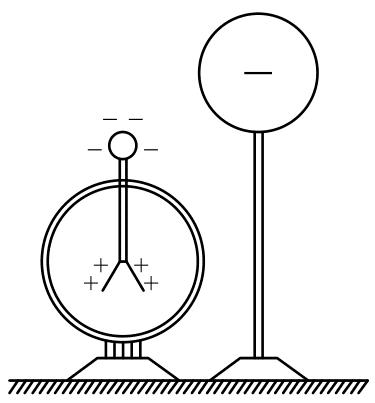
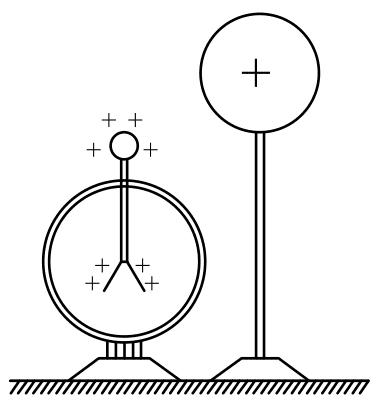
复核 2006 年 11 套真题：订正图片顺序/单位/文字并补齐解析公式编号、更新异常记录
- 北京理综第 14 题：选项验电器图与 A–D 对应错位，按图内容重排 figs/14a–d
- 四川理综第 14 题：题干补回“04 架”
- 广东第 2/15 题：s 裸单位改为 \Us（PhyUnit）
- 江苏第 10 题文字回归“我省”，第 13 题解析补公式编号 ①–③
- 江苏理综第 34/35 题解析补公式编号 ①–④ / ①–⑨ 及评分细则
- 上海第 8 题去子图自动编号、上海理综第 31 题答案去重“等”
- 异常记录/2006.md 补记复核发现的图片/文字/数据/单位/编号问题
- 11 卷重编学生版+教师版，make check 全部 0 错误

diff --git a/试卷/2006/江苏/江苏.tex b/试卷/2006/江苏/江苏.tex
@@ -245,7 +245,7 @@
 %% degree: 650
 %% duplicateId: 0
 %% body:
-江苏省沙河抽水蓄能电站自 2003 年投入运行以来，在缓解用电高峰电力紧张方面，取得了良好的社会效益和经济效益。抽水蓄能电站的工作原理是：在用电低谷时（如深夜），电站利用电网多余电能把水抽到高处蓄水池中；到用电高峰时，再利用蓄水池中的水发电。如图，蓄水池（上游水库）可视为长方体，有效总库容量（可用于发电）为 $V$，蓄水后水位高出下游水面 $H$，发电过程中上游水库水位最大落差为 $d$。统计资料表明，该电站年抽水用电为 $2.4\times10^{8}\UkWh$，年发电量为 $1.8\times10^{8}\UkWh$。则下列计算结果正确的是\xzanswer{BC}（水的密度为 $\rho$，重力加速度为 $g$，涉及重力势能的计算均以下游水面为零势能面）
+我省沙河抽水蓄能电站自 2003 年投入运行以来，在缓解用电高峰电力紧张方面，取得了良好的社会效益和经济效益。抽水蓄能电站的工作原理是：在用电低谷时（如深夜），电站利用电网多余电能把水抽到高处蓄水池中；到用电高峰时，再利用蓄水池中的水发电。如图，蓄水池（上游水库）可视为长方体，有效总库容量（可用于发电）为 $V$，蓄水后水位高出下游水面 $H$，发电过程中上游水库水位最大落差为 $d$。统计资料表明，该电站年抽水用电为 $2.4\times10^{8}\UkWh$，年发电量为 $1.8\times10^{8}\UkWh$。则下列计算结果正确的是\xzanswer{BC}（水的密度为 $\rho$，重力加速度为 $g$，涉及重力势能的计算均以下游水面为零势能面）
 
 \onepicture[w=5.5cm]{figs/10.png}
 
@@ -412,7 +412,7 @@ a=\frac{a_{1}+a_{2}+a_{3}}{3}=\frac{(CD+DE+EF)-(OA+AB+BC)}{9T^{2}},
 
 （2）量程扩大倍数为 $n=\frac{20\times10^{-3}}{500\times10^{-6}}=40$ 倍，故并联电阻为 $R_{2}=\frac{1}{n-1}R_{g}=\frac{1}{40-1}\times468\UO=12\UO$，改装后电表的总内阻为 $R_{A}=\frac{1}{40}\times468\UO=11.7\UO$。
 
-（3）由闭合电路的欧姆定律得 $E=I(R_{3}+R_{A}+r)$，变式可得 $R_{3}+R_{A}=E\cdot\frac{1}{I}-r$、$\frac{1}{I}=\frac{1}{E}(R_{3}+R_{A})+\frac{r}{E}$、$R_{3}=E\cdot\frac{1}{I}-(r+R_{A})$，由相应图象的斜率和截距即可求出电动势 $E$ 与内阻 $r$。
+（3）由闭合电路的欧姆定律得 $E=I(R_{3}+R_{A}+r)$，变式可得 $R_{3}+R_{A}=E\cdot\frac{1}{I}-r$ ①、$\frac{1}{I}=\frac{1}{E}(R_{3}+R_{A})+\frac{r}{E}$ ②、$R_{3}=E\cdot\frac{1}{I}-(r+R_{A})$ ③，由相应图象的斜率和截距即可求出电动势 $E$ 与内阻 $r$。
 
 \onepicture[w=4.6cm]{figs/13_an1.png}
 \onepicture[w=4.6cm]{figs/13_an2.png}

diff --git a/试卷/2006/江苏理综/江苏理综.tex b/试卷/2006/江苏理综/江苏理综.tex
@@ -324,11 +324,11 @@
 
 %% memo:
 \memoanswer{
-（1）根据 $a=\frac{v_{t}-v_{0}}{t}$，代入数据得 $a=0.1\Umsq$。
+（1）根据 $a=\frac{v_{t}-v_{0}}{t}$ ①，代入数据得 $a=0.1\Umsq$ ②。
 
-（2）设列车在运动中所受的阻力大小为 $f$，由牛顿第二定律 $F_{\text{合}}=F_{\text{牵}}-f=ma$，代入数据解得 $f=5.0\times10^{4}\UN$。
+（2）设列车在运动中所受的阻力大小为 $f$，由牛顿第二定律 $F_{\text{合}}=F_{\text{牵}}-f=ma$ ③，代入数据解得 $f=5.0\times10^{4}\UN$ ④。
 
-评分标准：本题共 7 分，其中第（1）问 3 分，第（2）问 4 分。
+评分标准：本题共 7 分，其中第（1）问 3 分，第（2）问 4 分。第（1）问中，①式 2 分，②式 1 分。
 }
 
 \item
@@ -364,15 +364,15 @@
 %% answer: IAE
 %% memo:
 \memoanswer{
-（1）电阻 $R_{2}$ 中的电流 $I=\frac{U_{2}}{R_{2}}$，代入数据得 $I=1\UA$。
+（1）电阻 $R_{2}$ 中的电流 $I=\frac{U_{2}}{R_{2}}$ ①，代入数据得 $I=1\UA$ ②。
 
-（2）外电阻 $R=R_{2}+\frac{R_{1}R_{3}}{R_{1}+R_{3}}=15\UO$，路端电压 $U=IR=15\UV$。
+（2）外电阻 $R=R_{2}+\frac{R_{1}R_{3}}{R_{1}+R_{3}}=15\UO$ ③，路端电压 $U=IR=15\UV$ ④。
 
-（3）根据闭合电路欧姆定律 $I=\frac{E}{R+r}$，代入数据解得 $E=20\UV$。
+（3）根据闭合电路欧姆定律 $I=\frac{E}{R+r}$ ⑤，代入数据解得 $E=20\UV$ ⑥。
 
-（4）$S_{1}$ 闭合而 $S_{2}$ 断开，电路中的总电流 $I'=\frac{E}{R_{1}+R_{2}+r}$，电压表示数 $U'=I'(R_{1}+R_{2})$，代入数据解得 $U'=16\UV$。
+（4）$S_{1}$ 闭合而 $S_{2}$ 断开，电路中的总电流 $I'=\frac{E}{R_{1}+R_{2}+r}$ ⑦，电压表示数 $U'=I'(R_{1}+R_{2})$ ⑧，代入数据解得 $U'=16\UV$ ⑨。
 
-评分标准：本题共 9 分，其中第（1）～（3）问各 2 分，第（4）问 3 分。
+评分标准：本题共 9 分，其中第（1）～（3）问各 2 分，第（4）问 3 分。第（1）～（3）问中，①～⑥式各给 1 分。第（4）问中，⑦～⑨式各给 1 分。其他解法，只要正确可参照以上标准给分。
 }
 
 \item

diff --git a/试卷/2006/上海理综/上海理综.tex b/试卷/2006/上海理综/上海理综.tex
@@ -226,7 +226,7 @@
 %% body:
 研究性学习小组经讨论得出家庭用电不安全事例主要有：
 
-电器漏电、线路老化、\tkanswer[1.8cm]{无接地线}、\tkanswer[3.6cm]{使用劣质开关或插座等}等。并提出猜想：[1] 家庭电路都连接有熔丝（保险丝），应该是安全的；[2] 熔丝只能保护电路，而不能保护人。某同学说：我家还安装了漏电保护器，很安全的。于是，大家决定探究熔丝和漏电保护器在电路中的作用，小组同学汇总资料并绘制电器漏电示意图如下：
+电器漏电、线路老化、\tkanswer[1.8cm]{无接地线}、\tkanswer[3.6cm]{使用劣质开关或插座}等。并提出猜想：[1] 家庭电路都连接有熔丝（保险丝），应该是安全的；[2] 熔丝只能保护电路，而不能保护人。某同学说：我家还安装了漏电保护器，很安全的。于是，大家决定探究熔丝和漏电保护器在电路中的作用，小组同学汇总资料并绘制电器漏电示意图如下：
 
 \textbf{资料}
 

diff --git a/试卷/2006/四川理综/四川理综.tex b/试卷/2006/四川理综/四川理综.tex
@@ -18,7 +18,7 @@
 %% degree: 850
 %% duplicateId: 0
 %% body:
-2006 年我国自行研制的“枭龙”战机在四川某地试飞成功。假设该战机起飞前从静止开始做匀加速直线运动，达到起飞速度 $v$ 所需时间为 $t$，则起飞前的运动距离为\xzanswer{B}
+2006 年我国自行研制的“枭龙”战机 04 架在四川某地试飞成功。假设该战机起飞前从静止开始做匀加速直线运动，达到起飞速度 $v$ 所需时间为 $t$，则起飞前的运动距离为\xzanswer{B}
 
 \fourchoices[answer=B]
 {$vt$}

diff --git a/试卷/2006/上海/上海.tex b/试卷/2006/上海/上海.tex
@@ -221,7 +221,7 @@
 %% body:
 A、B 是一条电场线上的两点，若在 A 点释放一初速为零的电子，电子仅受电场力作用，并沿电场线从 A 运动到 B，其速度随时间变化的规律如图所示。设 A、B 两点的电场强度分别为 $E_{A}$、$E_{B}$，电势分别为 $\varphi_{A}$、$\varphi_{B}$，则\xzanswer{AD}
 
-\twopicture[wA=6.5cm, wB=3.4cm]{figs/08a.png}{figs/08b.png}
+\twopicture[showlabel=false, wA=6.5cm, wB=3.4cm]{figs/08a.png}{figs/08b.png}
 
 \fourchoices[answer=AD]
 {$E_{A}=E_{B}$}

diff --git a/异常记录/2006.md b/异常记录/2006.md
@@ -30,22 +30,33 @@
 | 上海 | 17 | 复合图 | 图甲/乙/丙为一张复合 SVG，甲/乙/丙为正文引用的语义标签 | 原图整体呈现，图文标签一致；如需拆分可人工在 Inkscape 处理 | 待人工核验 |
 | 上海 | 22 | 复合图 | 磁场区域＋线框一体化示意图 | 原图整体呈现（图内无编号，与正文一致） | 待人工核验 |
 | 上海 | 7 | 缺详解 | merged.md 仅有答案 A，无解析文字，JSON `memo` 为 null | 已写占位，待补充 | 待补充 |
+| 上海 | 8 | 图片编号 | `\twopicture` 自动带出“图 a/图 b”子图编号，原卷两图无编号、正文亦未引用 | 已加 `showlabel=false` 去除 | 已解决 |
+| 上海 | 22 | 图片 | 22.svg 裁切偏紧，线框下边框紧贴图片下缘（内容完整） | 可重裁加少许留白；不影响内容 | 待人工核验 |
 | 江苏 | 6、11 | 复合图 | 选择题四幅选项图为一张复合图（含 A/B/C/D 与图注） | 已 2×2 匀分为 4 图并裁去字母标签 | 待人工核验 |
 | 江苏 | 12 | 平台数据 | JSON 拆为 6 分、7 分两条同号项，合并后取末条（7 分），与源卷该题 11 分不符 | 元数据保留 JSON 末条，正文按源卷呈现 | 待人工核验 |
 | 江苏 | 13 | 答案 | 官方答案区与解析区“答案一/二”描述互相矛盾，与所给函数式不自洽 | 按解析中自洽解法给出（含 3 张答案图），待核定 | 待人工核验 |
 | 江苏 | 18 | 文字 | JSON/材料题干重复两段相似文字（“2 分钟/3 分钟”） | 取“3 分钟，由……”版本 | 已解决 |
+| 江苏 | 10 | 文字 | 题干“江苏省沙河抽水蓄能电站”与 JSON/merged/原卷“我省”不一致 | 按三源改回“我省” | 已解决 |
+| 江苏 | 12 | 答案 | 原卷答案区印“0.65”，解析与物理计算为 $0.605\Ums$ | 正文取 $0.605\Ums$，待核对原卷 | 待人工核验 |
+| 江苏 | 13 | 文字 | 源卷“改变 $R_{1}$ 的值”应为 $R_{3}$（电路①中仅 $R_{3}$ 可变，数据组为 $R_{3}$、$I$） | 正文按 $R_{3}$ 排版，建议订正源卷 | 已解决 |
+| 江苏 | 13 | 详解 | 解析闭合电路三式缺公式编号 | 按 merged 补 `① ② ③` | 已解决 |
 | 广东 | 1 | 缺详解 | merged 解析仅给答案“A”，无推理文字 | 已写占位，待补充 | 待补充 |
 | 广东 | 12 | 答案 | 材料“答案”区 2.81/2.33 与解析区 2.86/2.37 不一致 | 取 JSON 及前一处 2.81/2.33，待核定 | 待人工核验 |
 | 广东 | 13 | 平台数据 | JSON 拆为两条同号项（各 7 分），合并后取末条 7 分，与源卷 15 分不符 | 元数据保留 JSON 末条 | 待人工核验 |
 | 广东 | 13 | 公式 | 答案区给 $3.23\times10^{-7}\Um$，按 $hc/\lambda=W+\frac{1}{2}mv^{2}$ 应约 $2.0\times10^{-7}\Um$，材料解析内部亦不一致 | 暂取源卷答案，待核定 | 待人工核验 |
 | 广东 | 17 | 答案 | 材料一处给 $l=2R/\sqrt[3]{5}$，解析推导为 $(12/5)^{1/3}R$ | 取解析推导，待核定 | 待人工核验 |
+| 广东 | 2 | 单位 | 选项 A/C/D 及解析中 $20\Us$/$60\Us$/$40\Us$ 裸写为 20 s/60 s/40 s | 改为 `$20\Us$` 等 PhyUnit 宏 | 已解决 |
+| 广东 | 15 | 单位 | 解析“最后 1 s 的位移”裸写单位 | 改为“最后 `$1\Us$` 的位移” | 已解决 |
 | 全国理综Ⅰ | 22 | 平台数据 | 第 22 题同号两条（实验Ⅰ 4 分 / Ⅱ 12 分），合计 16 分与卷面 17 分不符 | 合并为单题、元数据取末条（12 分），人工核验总分 | 待人工核验 |
 | 全国理综Ⅰ | 25 | 公式 | JSON 题干/答案中电动势符号误作 `ε`，卷面与解析均为 `E` | 正文统一按卷面 `E` 排版 | 已解决 |
 | 全国理综Ⅱ | 23 | 文字 | JSON 题干半径 $R=5.0\Um$，卷面/merged 为 $R=0.5\Um$（与答案相符） | 正文按卷面 $0.5\Um$ 排版，人工核验 JSON | 待人工核验 |
 | 北京理综 | 13 | 文字 | 选项 (B)(C) 作“核燃烧”，疑为“核燃料” | 三源一致，保留原卷原文，待人工核验 | 待人工核验 |
 | 北京理综 | 14 | 文字 | “使用电的金属球……箔片开”疑为“让带电的金属球……箔片张开” | 三源一致，保留原卷原文，待人工核验 | 待人工核验 |
+| 北京理综 | 14 | 图片 | 四个验电器选项图按 `pdfimages` 提取顺序误配为 A–D，正解 B 图错位 | 已按图内容重排 `figs/14a–d`（A↔D、B↔C 对调） | 已解决 |
 | 北京理综 | 21 | 平台数据 | 第 21 题同号两条（6 分 / 12 分） | 合并为单题，元数据取末条 | 已解决 |
 | 北京理综 | 21 | 公式 | JSON body“3.8 V，0.3 V”应为“3.8 V，0.3 A” | 按 PDF/merged 更正正文 | 已解决 |
+| 北京理综 | 23 | 数据 | 题给 $m=2.0\times10^{-23}\Ukg$、$U=2.5\UV$、$d=5\Ucm$ 时 $a$ 应约 $4\times10^{5}\Umsq$，答案却给 $4\times10^{9}\Umsq$；$p$ 给 $4.0\times10^{-23}\Ukgms$，与 $a=4\times10^{9}$ 及第 (2) 问位移 $5.0\times10^{-2}\Um$ 均自相矛盾（应为约 $4\times10^{-19}$） | 三源一致，暂原样保留，待人工核对原卷（疑电压幅值缺 $10^{4}$ 或质量指数应为 $-27$） | 待人工核验 |
+| 四川理综 | 14 | 文字 | 题干漏“04 架”（“枭龙”战机 04 架） | 已按 PDF/merged/docx 补回“04 架” | 已解决 |
 | 四川理综 | 22 | 平台数据 | 第 22 题同号两条（11 分 / 6 分） | 合并为单题，元数据取末条 | 已解决 |
 | 四川理综 | 22 | 文字 | 器材表出现两个“G”（导线若干、小车），答案 G 指小车 | 保留原文，待人工核验 | 待人工核验 |
 | 四川理综 | 25 | 公式 | 解析中 $E$ 单位误作 `N/m` | 按题干/答案更正为 `N/C` | 已解决 |
@@ -57,10 +68,12 @@
 | 上海理综 | 7、8 | 复合图 | 内嵌图为 A–D 选项图（含烙字）与照片拼合 | 已用 recrop 拆分去烙字，回填 `07/07a–d`、`08a–d` | 已解决 |
 | 上海理综 | 19 | 缺图 | JSON 图源为本地 clip 外链，无有效文件 | 已从原 PDF 无损提取 `figs/19.png` | 已解决 |
 | 上海理综 | 34 | 复合图 | 图为 A/B/C 三方案拼合，A/B/C 烙字被正文“下图 A/B/C”引用 | 原图整体呈现、图文标签一致 | 待人工核验 |
+| 上海理综 | 31 | 答案 | 平台答案第二空含句末“等”，与题干“等。”叠成“等等” | 已去空内冗余“等”；是否与官方答案字面一致待核 | 待人工核验 |
 | 上海理综 | 7–12、19、31、32、34、51 | 缺详解 | merged.md 无任何解析 | 各题写占位，待补充 | 待补充 |
 | 上海理综 | 全卷 | 来源 | 第Ⅰ卷标“物理占 18 分”，而收录物理选择 7 题（21 分） | 保留 JSON 题量，建议核对原卷分值 | 待人工核验 |
 | 江苏理综 | 17–25、32、33、36 | 缺详解 | merged.md 无解析（仅 34、35 有） | 未提供者写占位，待补充 | 待补充 |
 | 江苏理综 | 32 | 元数据 | JSON 标 `typeId=1/单选题`，实为两空填空题 | 保留 JSON 元数据、正文用 `\tkanswer`，人工核验 | 待人工核验 |
 | 江苏理综 | 33 | 文字 | 题干“磁匝量”应为“磁通量” | 已订正为“磁通量” | 已解决 |
+| 江苏理综 | 34、35 | 详解 | 详解漏标公式编号（34 缺 `①–④`、35 缺 `①–⑨`），并漏评分细则句 | 按 merged 补编号与评分标准文字 | 已解决 |
 | 江苏理综 | 35 | 元数据 | JSON 标 `typeId=1/单选题`，实为四小问计算题；答案字段记为字母串 `IAE` | 保留 JSON 元数据、按计算题排版、`%% answer: IAE`（2018 江苏先例） | 已解决 |
 | 江苏理综 | 36 | 理综 | 原题含化学小问 (1)(2)，JSON 仅收录物理小问 (3)（4 分） | 正文仅保留物理（水力发电），化学部分不收录 | 已解决 |
